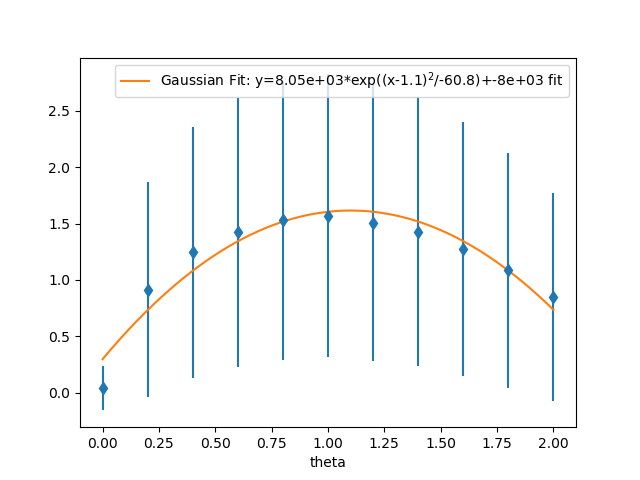
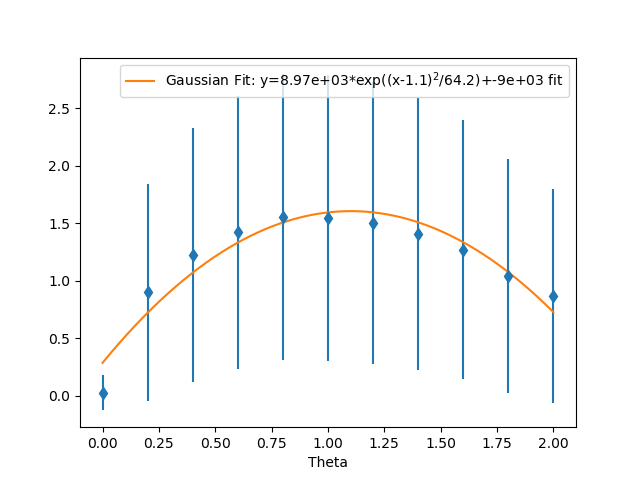
Add random seed

diff --git a/Scans/Mocks.py b/Scans/Mocks.py
@@ -7,6 +7,10 @@ on development or testing machines.
 from mock import Mock
 import numpy as np
 
+# Seed the random number generator so that unit tests always produce
+# the same images
+np.random.seed(0)
+
 g = Mock()
 g.period = 0
 g.frames = 0
